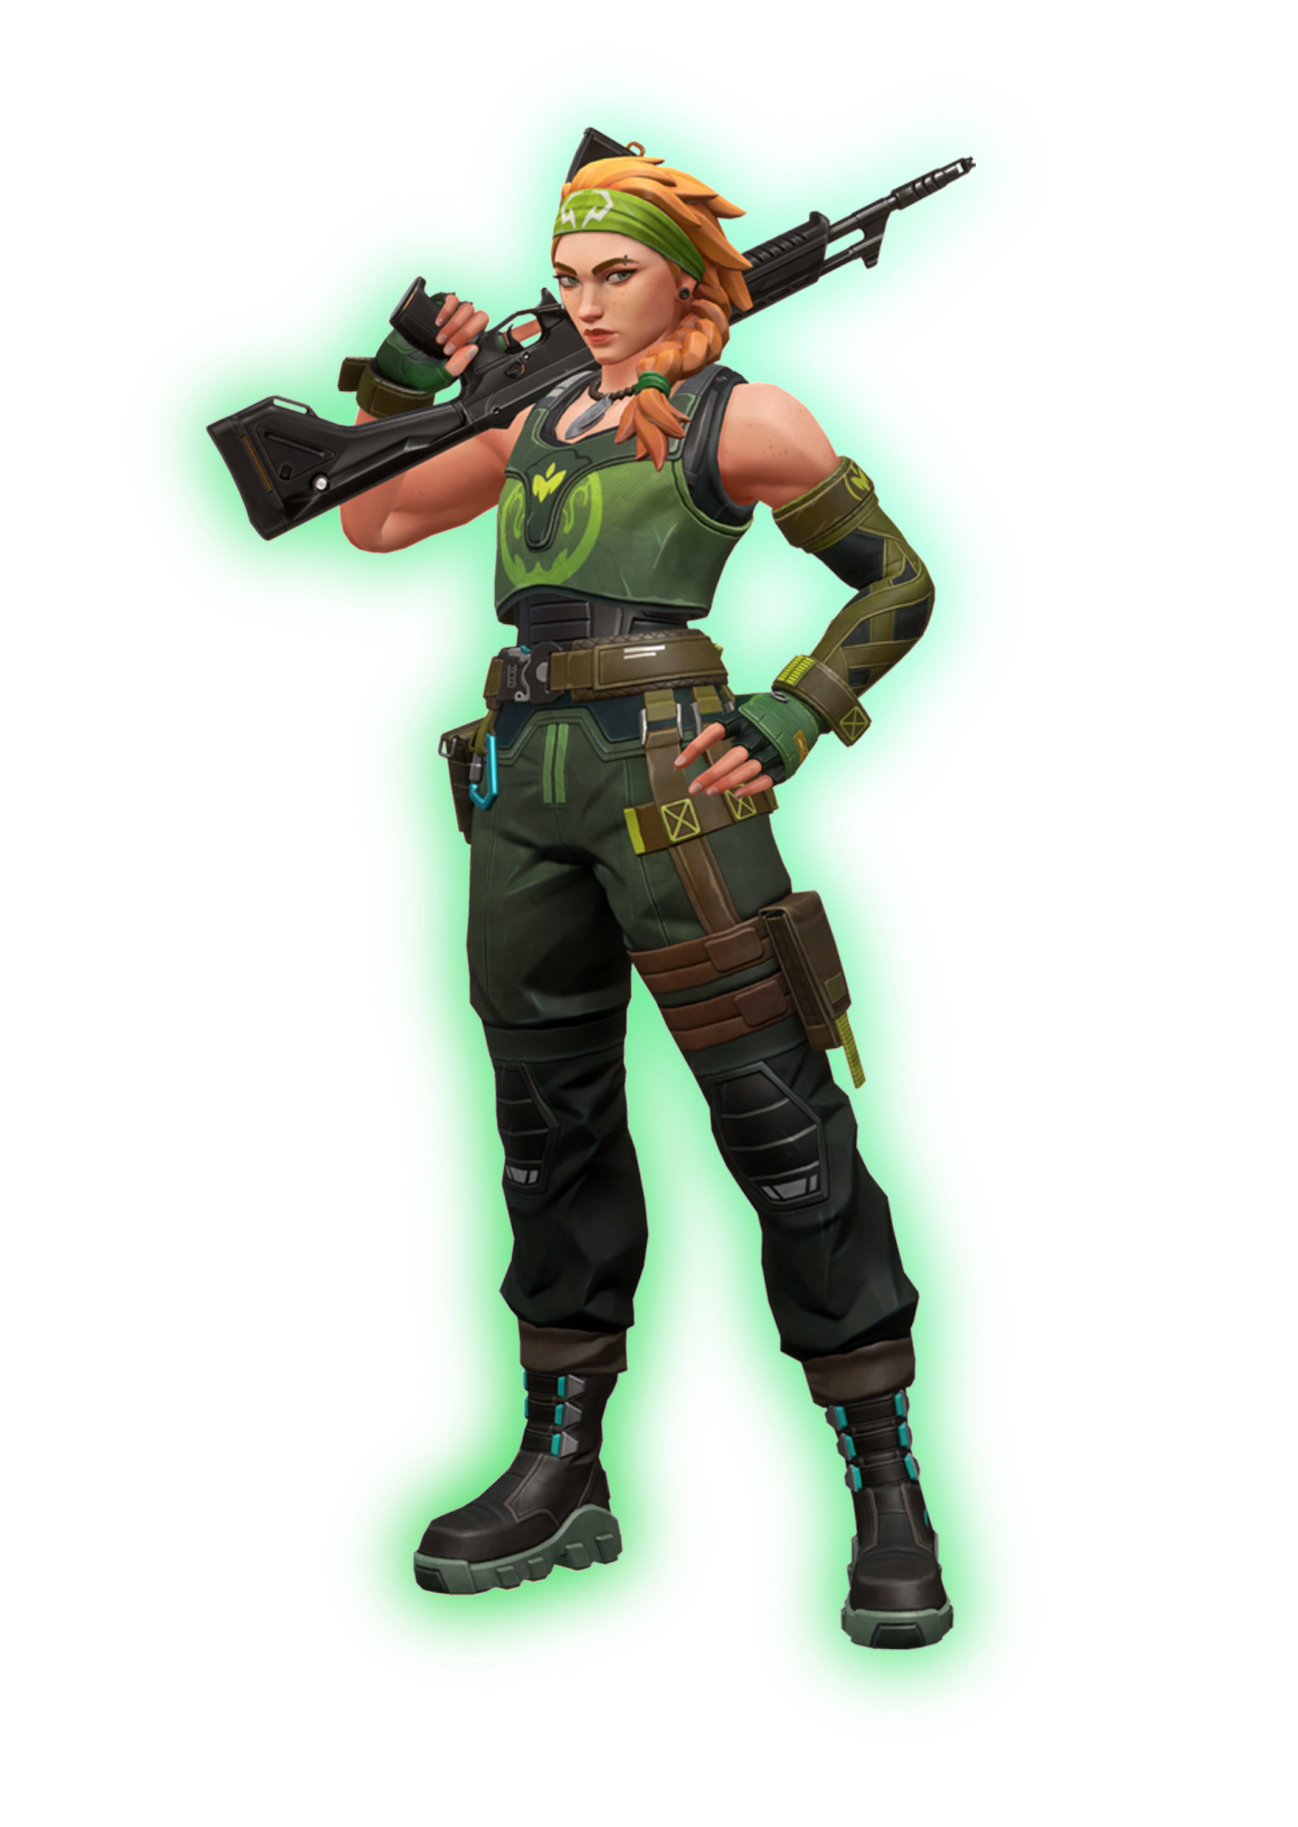
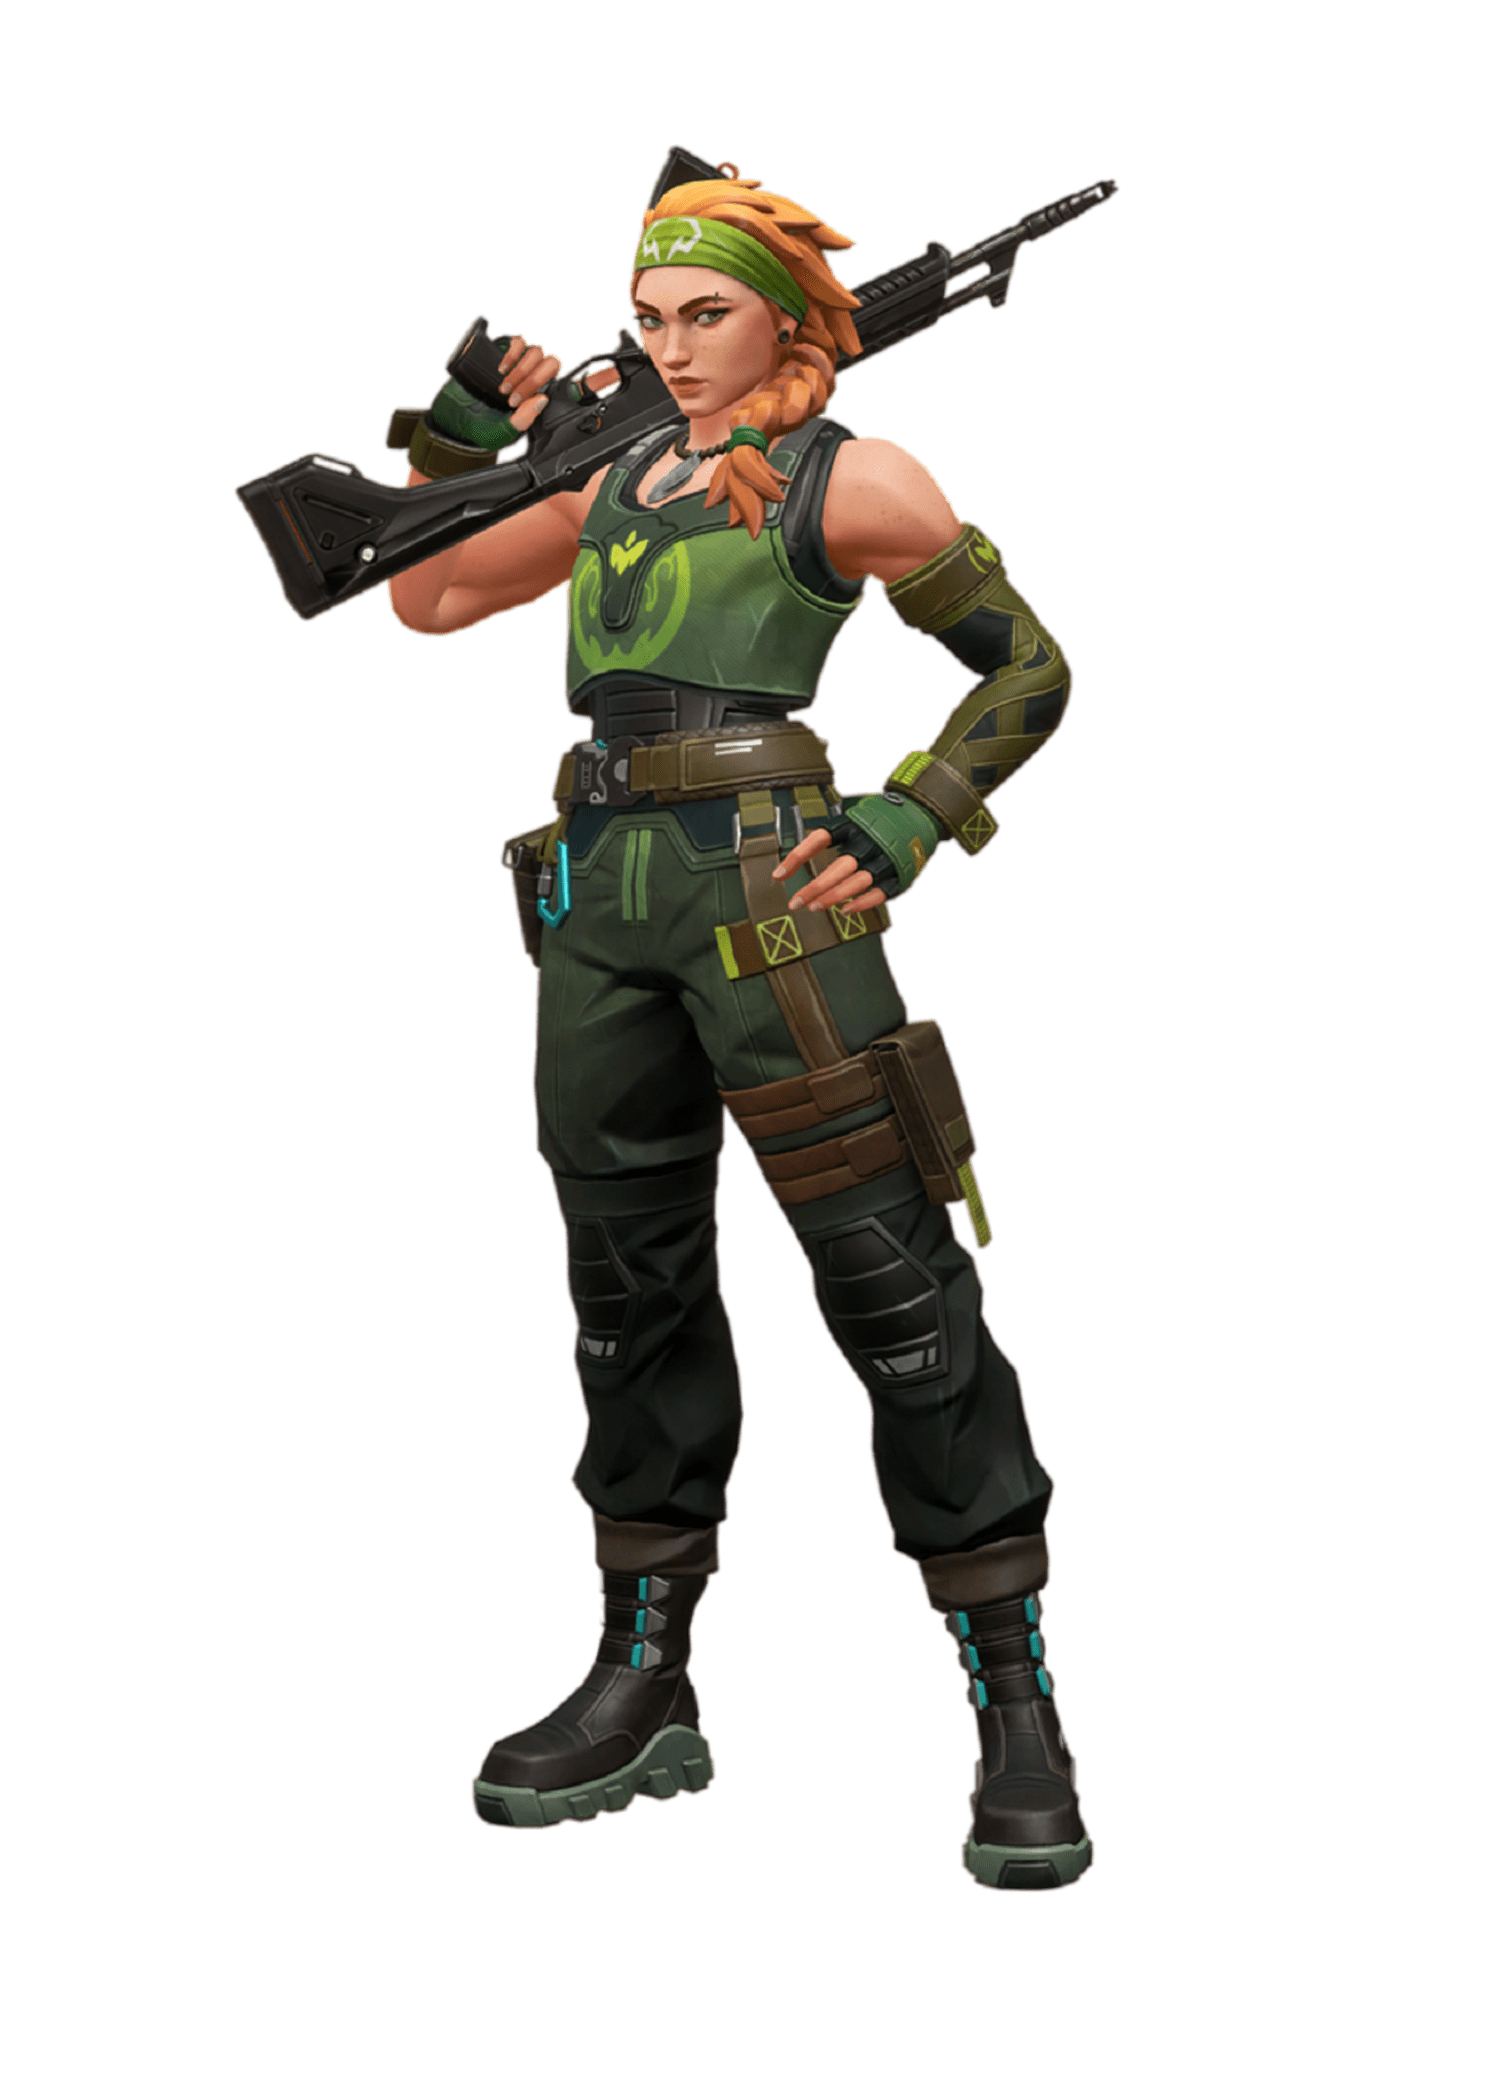
profile pic update

Changed region(s): [[0.1233, 0.0312, 0.7704, 0.936], [0.5239, 0.2808, 0.678, 0.4056]]

diff --git a/Angular/src/app/components/profile/profile.component.html b/Angular/src/app/components/profile/profile.component.html
@@ -1,11 +1,46 @@
 <app-navbar></app-navbar>
-<div  [style.backgroundImage.]="bgImg" class=" page-container d-flex">
+<div [style.backgroundImage.]="bgImg" class=" page-container d-flex">
     <div [style.background.]="bgcolor" class="profile-container shadow-lg rounded">
         <div class="header m-2 p-3 d-flex flex-row">
             <div class=" info d-flex flex-row">
                 <!-- profile pic -->
                 <div class="profile-pic rounded m-3">
                     <img [src]="character">
+                    <div class="pp">
+                        <i *ngIf="editMode" data-bs-toggle="modal" data-bs-target="#pp"
+                            class="fas cam text-light fa-camera fa-lg"></i>
+                    </div>
+                    <!-- profile picture change -->
+                    <div class="modal fade" id="pp" index="-1">
+                        <div class="modal-dialog modal-dialog-centered">
+                            <div class="modal-content">
+                                <div class="modal-header text-dark p-3">
+                                    <h5>Pick Your Fighter!</h5>
+                                    <button type="button" class="btn-close" data-bs-dismiss="modal"
+                                        aria-label="Close"></button>
+                                </div>
+                                <div class="modal-body d-flex flex-row flex-wrap justify-content-center p-4">
+                                   
+                                    <img class=" m-2 w-25 newPP " src="assets/images/thumbnails/enoiz019r2t41.png"
+                                        (click)="changePP(2)"
+                                        [ngClass]="{'selected img-thumbnail shadow-sm': selectedImage === 2}">
+                                    <img class=" m-2 w-25 newPP "
+                                        src="assets/images/thumbnails/fa15ab68646f5cd1e5f259693bef1e98-transformed.png"
+                                        (click)="changePP(3)"
+                                        [ngClass]="{'selected img-thumbnail shadow-sm' : selectedImage === 3}">
+                                    <img class=" m-2 w-25 newPP " src="assets/images/thumbnails/PkBYcGy.png"
+                                        (click)="changePP(4)"
+                                        [ngClass]="{'selected img-thumbnail shadow-sm': selectedImage === 4}">
+                                    <img class=" m-2 w-25 newPP " src="assets/images/thumbnails/ValorantSkye.png"
+                                        (click)="changePP(5)"
+                                        [ngClass]="{'selected img-thumbnail shadow-sm': selectedImage === 5}">
+                                        <img class=" m-2 w-25 newPP " src="assets/images/thumbnails/pubg.png"
+                                        (click)="changePP(1)"
+                                        [ngClass]="{'selected img-thumbnail shadow-sm': selectedImage === 1}">
+                                </div>
+                            </div>
+                        </div>
+                    </div>
                 </div>
                 <div>
                     <div class="mb-2" *ngIf="editMode else elseblock">
@@ -36,15 +71,62 @@
                         </div>
 
                     </div>
-
                     <div class="mt-4 d-flex flex-row" *ngIf="!editMode">
-                        <div class="mt-2 m-2 rounded text-center stat text-light">
-                            <span>465</span><br>
+                        <!-- followers -->
+                        <div data-bs-toggle="modal" data-bs-target="#followers"
+                            class="mt-2 m-2 rounded text-center stat text-light">
+                            <span>3</span><br>
                             <label>Followers</label>
+                            <div class="modal fade" id="followers" index="-1">
+                                <div class="modal-dialog modal-dialog-centered">
+                                    <div class="modal-content">
+                                        <div class="modal-header text-dark p-3">
+                                            <h5>Followers List</h5>
+                                            <button type="button" class="btn-close" data-bs-dismiss="modal"
+                                                aria-label="Close"></button>
+                                        </div>
+                                        <div class="modal-body d-flex flex-row flex-wrap justify-content-center p-4">
+                                            <!-- <div *ngFor="let follower of followers"
+                                                class="text-dark d-flex flex-row align-items-center">
+                                                <img class="w-25 m-4" src={{follower.character}}>
+                                                <div>
+                                                    <p class="m-2 fw-bold">{{follower.username}}</p>
+                                                    <p class="bg-dark m-2 text-light pt-1 pb-1 ps-2 pe-2">
+                                                        {{follower.level}}</p>
+                                                </div>
+                                            </div> -->
+                                        </div>
+                                    </div>
+                                </div>
+                            </div>
                         </div>
-                        <div class="mt-2 m-2 rounded text-center stat text-light">
-                            <span>3,415</span><br>
+                        <!-- following -->
+                        <div data-bs-toggle="modal" data-bs-target="#following"
+                            class="mt-2 m-2 rounded text-center stat text-light">
+                            <span>5</span><br>
                             <label>Following</label>
+                            <div class="modal fade" id="following" index="-1">
+                                <div class="modal-dialog modal-dialog-centered">
+                                    <div class="modal-content">
+                                        <div class="modal-header text-dark p-3">
+                                            <h5>Following List</h5>
+                                            <button type="button" class="btn-close" data-bs-dismiss="modal"
+                                                aria-label="Close"></button>
+                                        </div>
+                                        <div class="modal-body d-flex flex-row flex-wrap justify-content-center p-4">
+                                            <!-- <div *ngFor="let person of following"
+                                                class="text-dark d-flex flex-row align-items-center">
+                                                <img class="w-25 m-4" src={{person.character}}>
+                                                <div>
+                                                    <p class="m-2 fw-bold">{{person.username}}</p>
+                                                    <p class="bg-dark m-2 text-light pt-1 pb-1 ps-2 pe-2">
+                                                        {{person.level}}</p>
+                                                </div>
+                                            </div> -->
+                                        </div>
+                                    </div>
+                                </div>
+                            </div>
                         </div>
                     </div>
                 </div>

diff --git a/Angular/src/app/components/profile/profile.component.ts b/Angular/src/app/components/profile/profile.component.ts
@@ -26,7 +26,8 @@ export class ProfileComponent implements OnInit {
   inputs: any[] = []
   character = 'assets/images/Characters/PkBYcGy.png'
   bgImg = "url(" + this.character + ")"
-  
+  selectedImage:any
+
   constructor(private userService: UserService, private orderService: OrdersService,
     private cdr: ChangeDetectorRef, private userUpdateService: UserUpdateService) { }
 
@@ -48,7 +49,8 @@ export class ProfileComponent implements OnInit {
       "username": this.updatedName,
       "discord": this.updatedDiscord,
       "preferences": this.updatedPreferences,
-      "bgColor": this.bgcolor
+      "bgColor": this.bgcolor,
+      // "character":this.character
     }
     this.emitValue(updatedUser);
     this.userService.updateUser(this.user._id, updatedUser).subscribe({
@@ -140,8 +142,77 @@ export class ProfileComponent implements OnInit {
   }
   setDefault() {
     this.bgcolor = this.default
+    this.character = 'assets/images/Characters/PkBYcGy.png'
+    this.bgImg = "url(" + this.character + ")"
   }
   addInput() {
     this.inputs.push("")
   }
+  changePP(char: any) {
+    switch (char) {
+      case 1:
+        this.character = 'https://res.cloudinary.com/ds5puha49/image/upload/v1687129075/pubg_gibvff.png'
+        break;
+      case 2:
+        this.character = 'https://res.cloudinary.com/ds5puha49/image/upload/v1687129110/enoiz019r2t41_gdu6rq.png'
+        break;
+      case 3:
+        this.character = 'https://res.cloudinary.com/ds5puha49/image/upload/v1687129076/fa15ab68646f5cd1e5f259693bef1e98-transformed_i3eloo.png'
+        break;
+      case 4:
+        this.character = 'https://res.cloudinary.com/ds5puha49/image/upload/v1687129084/PkBYcGy_jz4ta4.png'
+        break;
+      case 5:
+        this.character = 'https://res.cloudinary.com/ds5puha49/image/upload/v1687129076/ValorantSkye_ac7wia.png'
+        break;
+    }
+    this.bgImg = "url(" + this.character + ")"
+    this.selectedImage = char;
+    //update user
+  }
+
+  // followers=[
+  //   {
+  //     username:"ahmed",
+  //     character:"assets/images/Characters/PkBYcGy.png",
+  //     level:"gladiator"
+  //   },
+  //   {
+  //     username:"samya",
+  //     character:"assets/images/Characters/enoiz019r2t41.png",
+  //     level:"slayer"
+  //   },
+  //   {
+  //     username:"koko",
+  //     character:"assets/images/Characters/pubg.png",
+  //     level:"knight"
+  //   }
+  // ]
+  // following=[
+  //   {
+  //     username:"ahmed",
+  //     character:"assets/images/Characters/PkBYcGy.png",
+  //     level:"gladiator"
+  //   },
+  //   {
+  //     username:"samya",
+  //     character:"assets/images/Characters/enoiz019r2t41.png",
+  //     level:"slayer"
+  //   },
+  //   {
+  //     username:"koko",
+  //     character:"assets/images/Characters/pubg.png",
+  //     level:"knight"
+  //   },
+  //   {
+  //     username:"samya",
+  //     character:"assets/images/Characters/enoiz019r2t41.png",
+  //     level:"slayer"
+  //   },
+  //   {
+  //     username:"koko",
+  //     character:"assets/images/Characters/pubg.png",
+  //     level:"knight"
+  //   }
+  // ]
 }

diff --git a/Angular/src/app/components/profile/profile.component.css b/Angular/src/app/components/profile/profile.component.css
@@ -15,11 +15,13 @@
     /* background-color: rgba(112, 219, 142, 0.527); */
     width: 80%;
 }
-.overUser{
-  width: 10em;
-  overflow: hidden;
-  text-overflow: ellipsis;
+
+.overUser {
+    width: 10em;
+    overflow: hidden;
+    text-overflow: ellipsis;
 }
+
 .theme {
     align-items: center;
 }
@@ -50,7 +52,9 @@
     padding: 3px 18px;
 
 }
-
+.stat:hover{
+    cursor: pointer;
+}
 .title:hover {
     cursor: pointer;
     color: #007bff;
@@ -103,4 +107,21 @@
 .games-purchased {
     justify-content: center;
     flex-wrap: wrap;
+}
+
+.cam:hover{
+    cursor: pointer;
+}
+.newPP:hover{
+    cursor: pointer;
+    transform: scale(1.2);
+}
+.newPP{
+    transition: transform 0.3s ease;
+    /* width: 200px;
+height: 170px; */
+}
+.selected{
+    transform: scale(1.2);
+    background-color: #777a52d0;
 }

diff --git a/NodeJs/migrations/20230613153038-create-user.js b/NodeJs/migrations/20230613153038-create-user.js
@@ -52,6 +52,14 @@ module.exports = {
           type: Sequelize.STRING,
           defaultValue : "rgba(112, 192, 219, 0.527)",
         },
+        character: {
+          type: Sequelize.STRING,
+          defaultValue : "https://res.cloudinary.com/ds5puha49/image/upload/v1687129084/PkBYcGy_jz4ta4.png",
+        },
+        level: {
+          type: Sequelize.STRING,
+          defaultValue : "https://res.cloudinary.com/ds5puha49/image/upload/v1687129775/6009637_ow81gz.png",
+        },
         isBanned: {
           type: Sequelize.BOOLEAN,
           allowNull: false,
